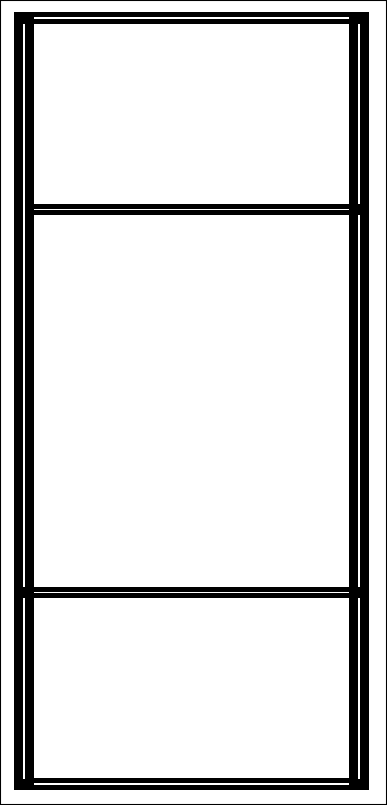
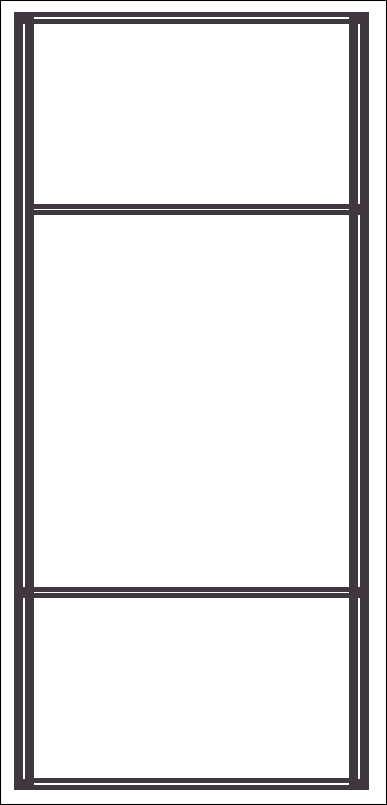
minor changes (background and plot properties)

Changed region(s): [[0.031, 0.0, 0.9612, 0.9938]]

diff --git a/src/main.py b/src/main.py
@@ -87,6 +87,7 @@ class Simulation:
         plt.ylim((-5, 230))
         plt.gca().set_aspect('equal', adjustable='box')
         self.ax.imshow(self.background,extent=[-5, 108, -5, 230])
+        plt.axis('off')
         for inter in self.intersections:
             inter.changeRoad()
 
@@ -121,7 +122,7 @@ class Simulation:
                     elif mdl.direction == 4:
                         Y = mdl.ModelY - car.posX
                         X = mdl.ModelX + car.posY
-                    self.ax.plot([X], [Y], marker='.', markersize=2, linestyle='', color='y')
+                    self.ax.plot([X], [Y], marker='.', markersize=2, linestyle='', color='r')
 
 
     def start(self):
